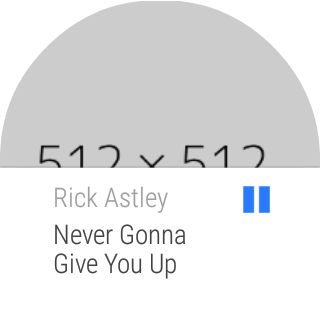
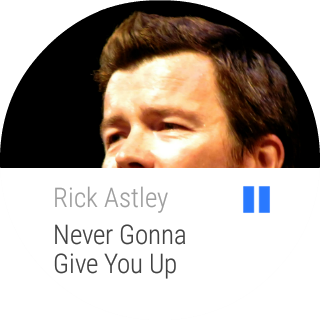
Rickrolled all artwork images

diff --git a/src/content/en/updates/2017/02/media-session.md b/src/content/en/updates/2017/02/media-session.md
@@ -264,7 +264,7 @@ shows up on lock screens.
 <div class="attempt-left">
   <figure>
     <img src="/web/updates/images/2017/02/lock-screen.png" alt="Lock Screen">
-    <figcaption>Lock screen</figcaption>
+    <figcaption>Lock Screen - <a href="https://en.wikipedia.org/wiki/Rick_Astley#/media/File:Rick_Astley_Tivoli_Gardens.jpg">Photo</a> by Michael Alø-Nielsen / <a href="https://creativecommons.org/licenses/by/2.0/">CC BY 2.0</a></figcaption>
   </figure>
 </div>
 <div class="attempt-right">
